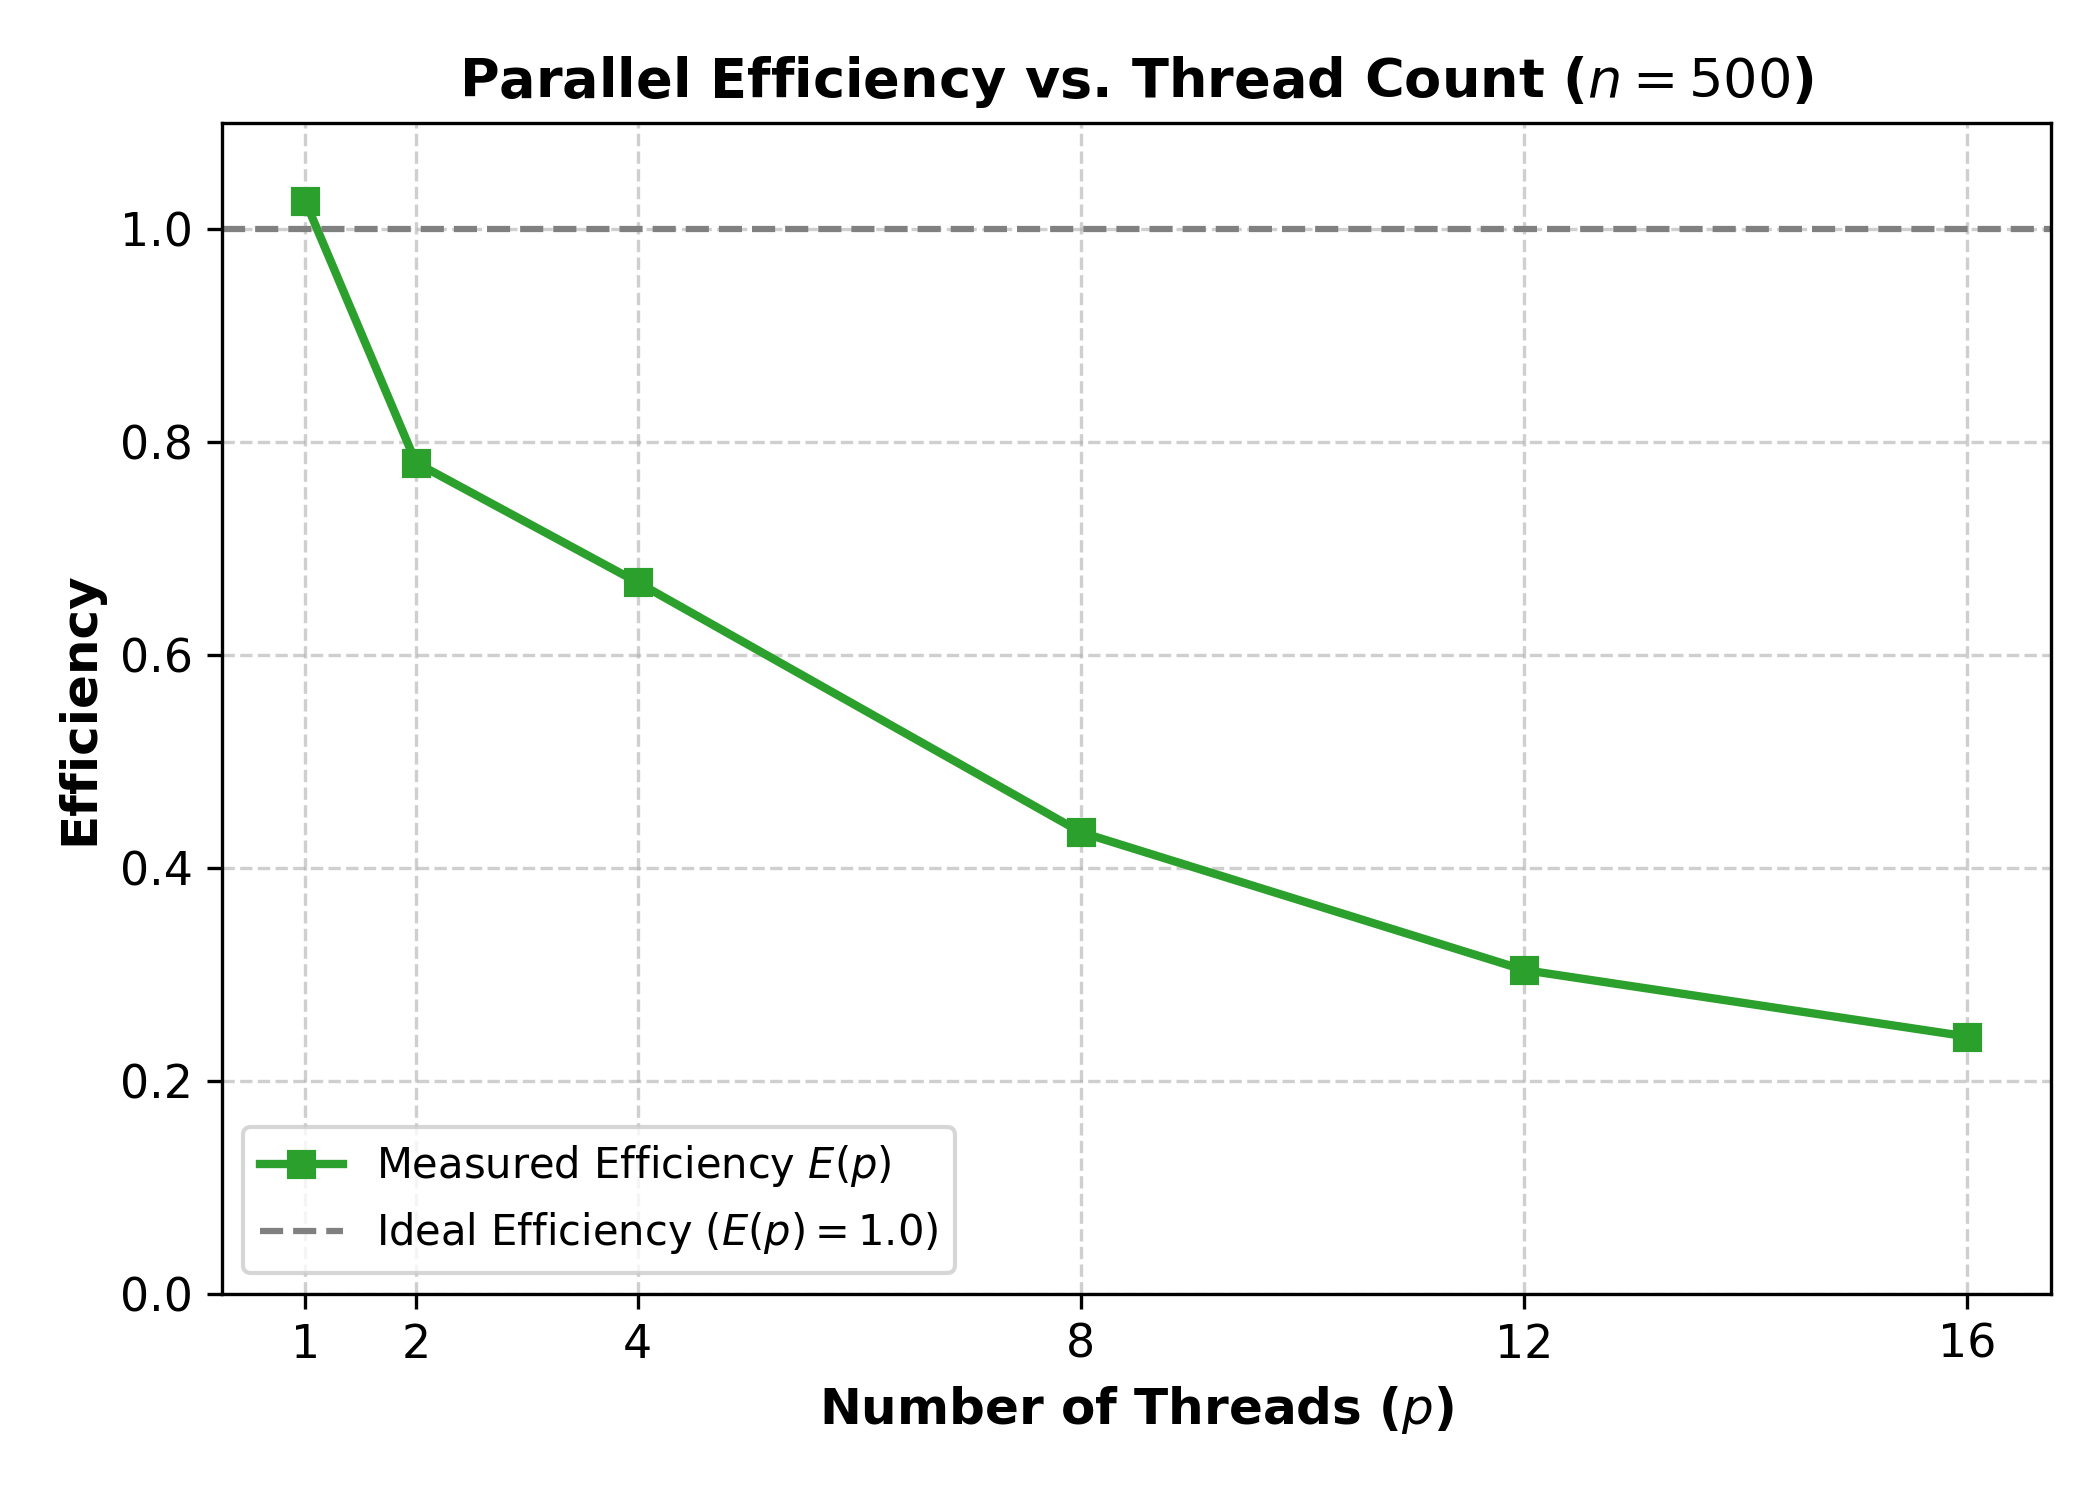
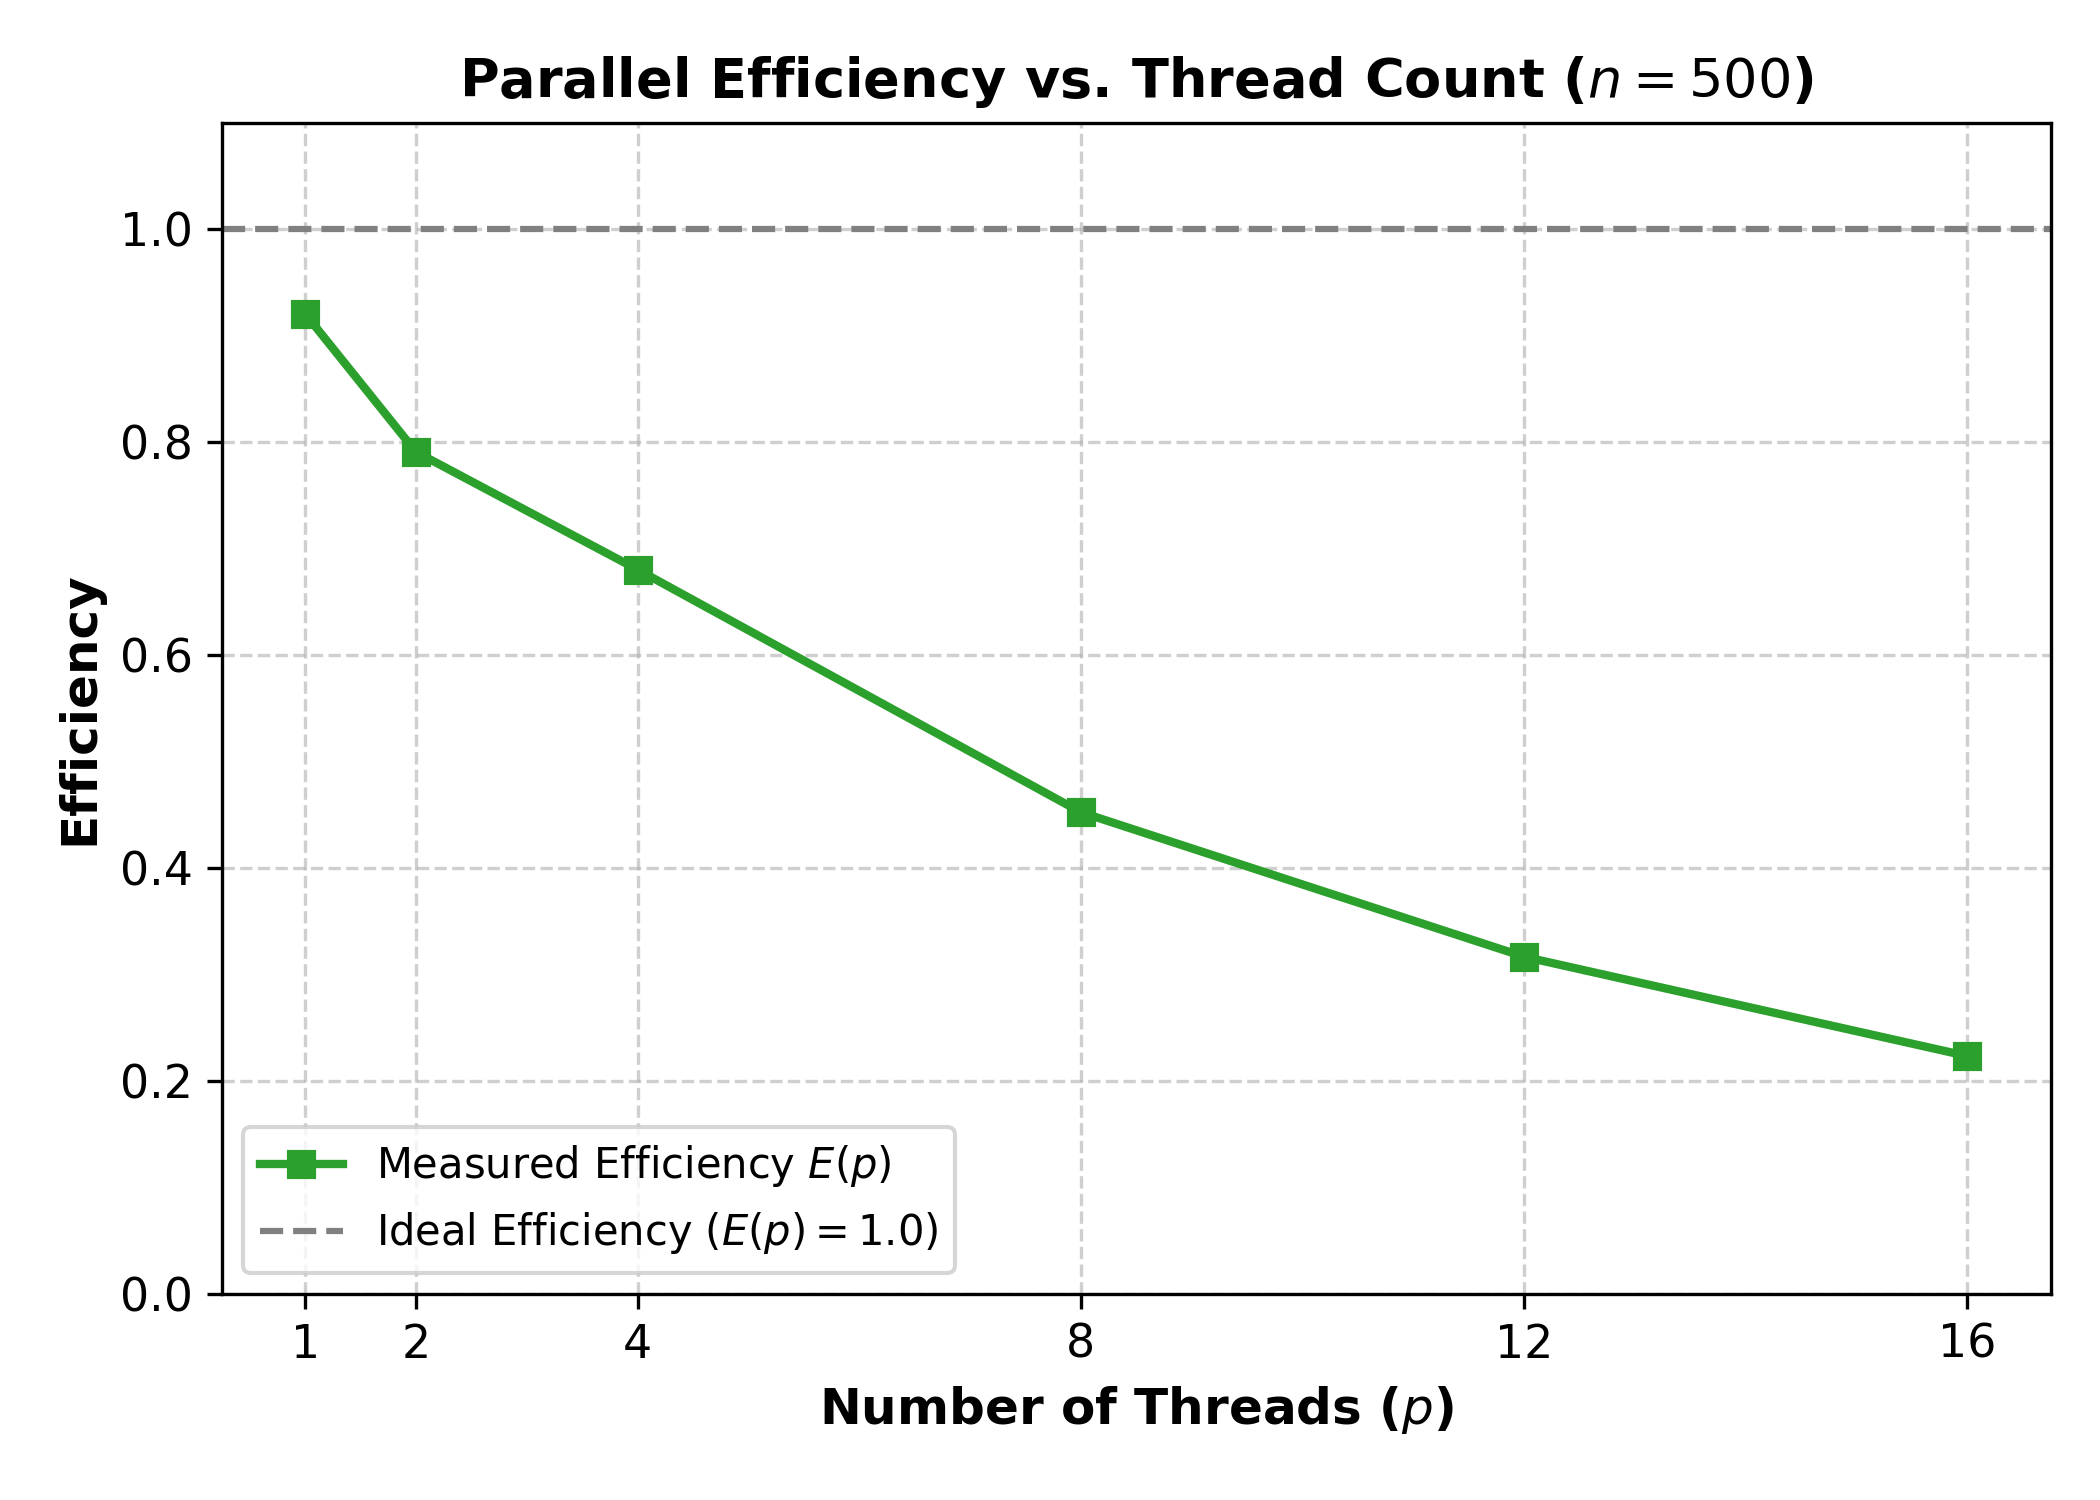
figures

diff --git a/README.md b/README.md
@@ -8,7 +8,7 @@ Empirical study evaluating shared-memory parallelization using Java's `ExecutorS
 - **RAM:** 16 GB DDR4.
 - **Operating System:** Windows 11 Home (64-bit).
 - **Java Compiler:** `javac 27.0.1.0.3`
-- **Java Runtime:** `java 27.0.1.0.3` (Oracle HotSpot 64-Bit Server VM)
+- **Java Runtime:** `java 27.0.1.0.3` (Oracle HotSpot 64-Bit Server VM).
 - **Available Processors:** 16, as reported by `Runtime.getRuntime().availableProcessors()`.
 - **Python Environment:** Python 3.13 (Pandas, Matplotlib and NumPy).
 
@@ -16,15 +16,33 @@ Empirical study evaluating shared-memory parallelization using Java's `ExecutorS
 
 - **Algorithmic Workload:** Equivalent dense \(O(n^3)\) matrix multiplication algorithm applied in both sequential and parallel implementations, using double-precision floating-point values.
 - **Parallel Strategy:** Row-wise work distribution using Java's `ExecutorService` and a fixed thread pool. Each task computes one output row, avoiding concurrent writes to the same row.
-- **Thread Scaling (\(p\)):** Tested with 1, 2, 4, 8, 12 and 16 threads, using a fixed matrix dimension of \(n = 500\).
-- **Input Generation:** Matrices are generated using Java's pseudorandom number generator with fixed seeds. The same input matrices are used by the sequential and parallel implementations for each measured repetition.
-- **Validation:** Random matrices, identity matrices and zero matrices are tested. Sequential and parallel results are compared using an absolute numerical tolerance of \(\varepsilon = 10^{-9}\).
+- **Thread Scaling (\(p\)):** Tested with 1, 2, 4, 8, 12 and 16 threads, using a fixed matrix dimension of \(n = 500\). A sequential implementation is also used as the baseline.
+- **Input Generation:** Matrices are generated using Java's pseudorandom number generator. For each measured repetition, seeds are set to `100L + repetition` and `200L + repetition`. The same input matrices are used by all configurations within each repetition.
+- **Validation:** Random matrices, identity matrices and zero matrices are tested. Results are checked using absolute and relative numerical tolerances of \(10^{-9}\).
 - **Timing Boundary:** Execution time is measured using Java's monotonic high-resolution timer (`System.nanoTime()`). Input generation is excluded from the timed section. The sequential measurement includes output matrix allocation and multiplication. The parallel measurement additionally includes output allocation, executor creation, task submission, synchronization and executor termination. Result consumption is performed after timing.
-- **Warm-up and Repetitions:** Three unrecorded warm-up executions per configuration, followed by five recorded repetitions per configuration.
+- **Warm-up and Repetitions:** Three unrecorded warm-up executions are performed for the sequential implementation and for each parallel thread-count configuration. Each configuration is then measured over 10 repetitions. The execution order is rotated between repetitions to reduce potential ordering effects.
 - **Performance Metrics:** Median execution time and interquartile range (IQR) are reported. Speedup is calculated as \(S(p) = T_{seq}/T_p\), and efficiency as \(E(p) = S(p)/p\).
 - **Memory Metric:** Estimated matrix storage for three \(n \times n\) double-precision matrices. This is an array-payload estimate, not a measurement of peak process memory or total JVM memory usage. It excludes Java object overhead, executor structures and other runtime allocations.
 
-## 3. Build and Execution Instructions
+## 3. Experimental Results
+
+The following results were obtained for matrices of dimension \(500 \times 500\), using 10 measured repetitions per configuration.
+
+| Method | Threads | Median Time (s) | Speedup | Efficiency |
+|---|---:|---:|---:|---:|
+| Sequential | 1 | 0.019156 | 1.000 | 1.000 |
+| Parallel | 1 | 0.020815 | 0.920 | 0.920 |
+| Parallel | 2 | 0.012115 | 1.581 | 0.791 |
+| Parallel | 4 | 0.007042 | 2.720 | 0.680 |
+| Parallel | 8 | 0.005295 | 3.618 | 0.452 |
+| Parallel | 12 | 0.005044 | 3.797 | 0.316 |
+| Parallel | 16 | 0.005365 | 3.571 | 0.223 |
+
+The best measured speedup was obtained with 12 threads, reaching approximately 3.80. Increasing the thread count to 16 did not improve performance further.
+
+The generated plots illustrate the relationship between thread count, speedup and parallel efficiency.
+
+## 4. Build and Execution Instructions
 
 ### Compilation
 
@@ -46,7 +64,7 @@ Run the Python analysis script to calculate summary statistics, Speedup and Effi
 python plot_assignment3.py
 ```
 
-## 4. Repository File Structure
+## 5. Repository File Structure
 
 ```text
 Assignment3/
